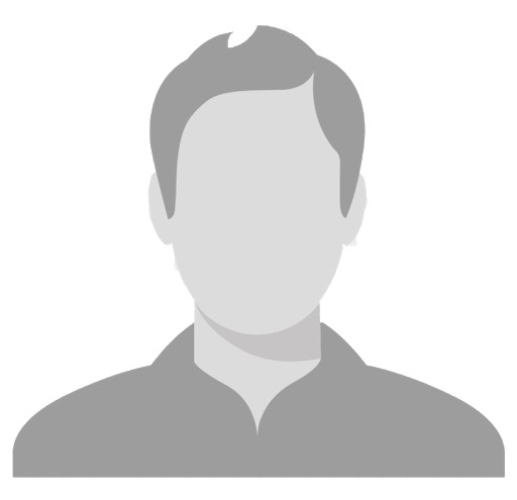
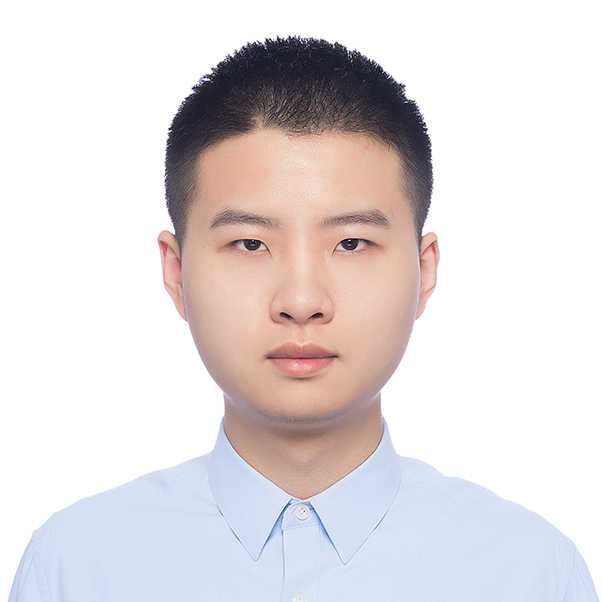
Ziming_WangUpdate

diff --git a/application/public/zwang.html b/application/public/zwang.html
@@ -1,7 +1,7 @@
 <!DOCTYPE HTML>
 <html>
 	<head>
-		<title>Error404|Your name here</title>
+		<title>Error404|Ziming Wang</title>
 		<link rel="shortcut icon" type="image/jpg" href="images/favicon.ico"/>
 		<meta charset="utf-8" />
 		<meta name="viewport" content="width=device-width, initial-scale=1, user-scalable=no" />
@@ -26,9 +26,9 @@
 				<div class="row gtr-150">
 					<div class="col-6 col-12-medium">
 						<header class="major">
-							<h2>your Name here</h2>
+							<h2>Ziming Wang</h2>
 						</header>
-						<p>Your information here.</p>
+						<p>Frontend member. Still learning React and CSS. Love codes.</p>
 					</div>
 					<div class="col-6 col-12-medium imp-medium">
 						<span class="image fit"><img src="images/zwang.jpg" alt="" /></span>
